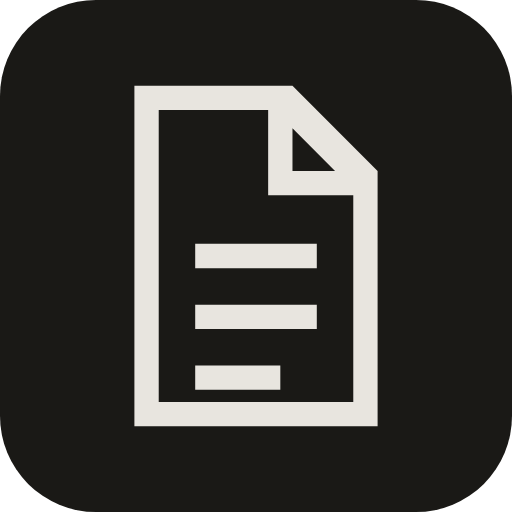
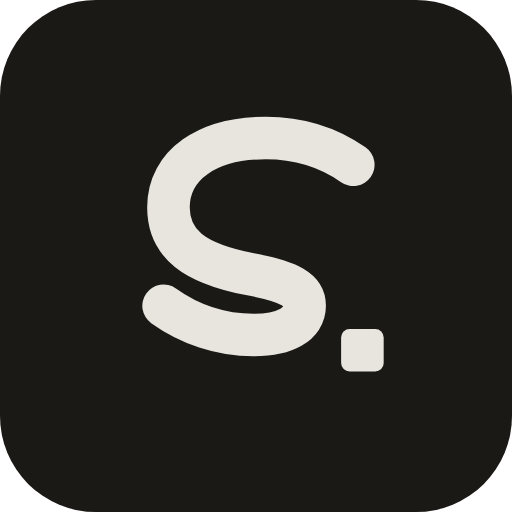
style(web): give sdocx a custom ink mark

Changed region(s): [[0.25, 0.1562, 0.75, 0.8438], [0.6562, 0.25, 0.6875, 0.2812]]

diff --git a/web/scripts/generate-icons.ts b/web/scripts/generate-icons.ts
@@ -1,8 +1,8 @@
 import { chromium } from '@playwright/test';
 import { writeFile } from 'node:fs/promises';
 
-const glyph =
-	'<path fill="#e8e5df" fill-rule="evenodd" clip-rule="evenodd" d="M6 2h13l7 7v21H6V2Zm2 2v24h16V11h-7V4H8Zm11 1.5V9h3.5L19 5.5ZM11 15h10v2H11v-2Zm0 5h10v2H11v-2Zm0 5h7v2h-7v-2Z"/>';
+const glyph = `<path d="M24 8.5c-2-1.4-4.4-2.2-7.2-2.2-4.8 0-8 2.2-8 5.7 0 3 2.1 4.6 6.7 5.5 3.3.6 4.5 1.3 4.5 2.6 0 1.5-1.6 2.4-4.2 2.4-2.7 0-5.3-.9-7.4-2.4" fill="none" stroke="#e8e5df" stroke-linecap="round" stroke-width="3.5"/>
+	<rect x="23" y="22" width="3.5" height="3.5" rx=".7" fill="#e8e5df"/>`;
 
 function mark(scale: number, radius = 0): string {
 	return `<svg xmlns="http://www.w3.org/2000/svg" viewBox="0 0 32 32">

diff --git a/web/src/lib/components/Logo.svelte b/web/src/lib/components/Logo.svelte
@@ -6,10 +6,13 @@
 	const { size = 16 }: Props = $props();
 </script>
 
-<svg width={size} height={size} viewBox="0 0 32 32" fill="currentColor" aria-hidden="true">
+<svg width={size} height={size} viewBox="0 0 32 32" aria-hidden="true">
 	<path
-		fill-rule="evenodd"
-		d="M6 2h13l7 7v21H6V2Zm2 2v24h16V11h-7V4H8Zm11 1.5V9h3.5L19 5.5ZM11 15h10v2H11v-2Zm0 5h10v2H11v-2Zm0 5h7v2h-7v-2Z"
-		clip-rule="evenodd"
+		d="M24 8.5c-2-1.4-4.4-2.2-7.2-2.2-4.8 0-8 2.2-8 5.7 0 3 2.1 4.6 6.7 5.5 3.3.6 4.5 1.3 4.5 2.6 0 1.5-1.6 2.4-4.2 2.4-2.7 0-5.3-.9-7.4-2.4"
+		fill="none"
+		stroke="currentColor"
+		stroke-linecap="round"
+		stroke-width="3.5"
 	/>
+	<rect x="23" y="22" width="3.5" height="3.5" rx="0.7" fill="currentColor" />
 </svg>
